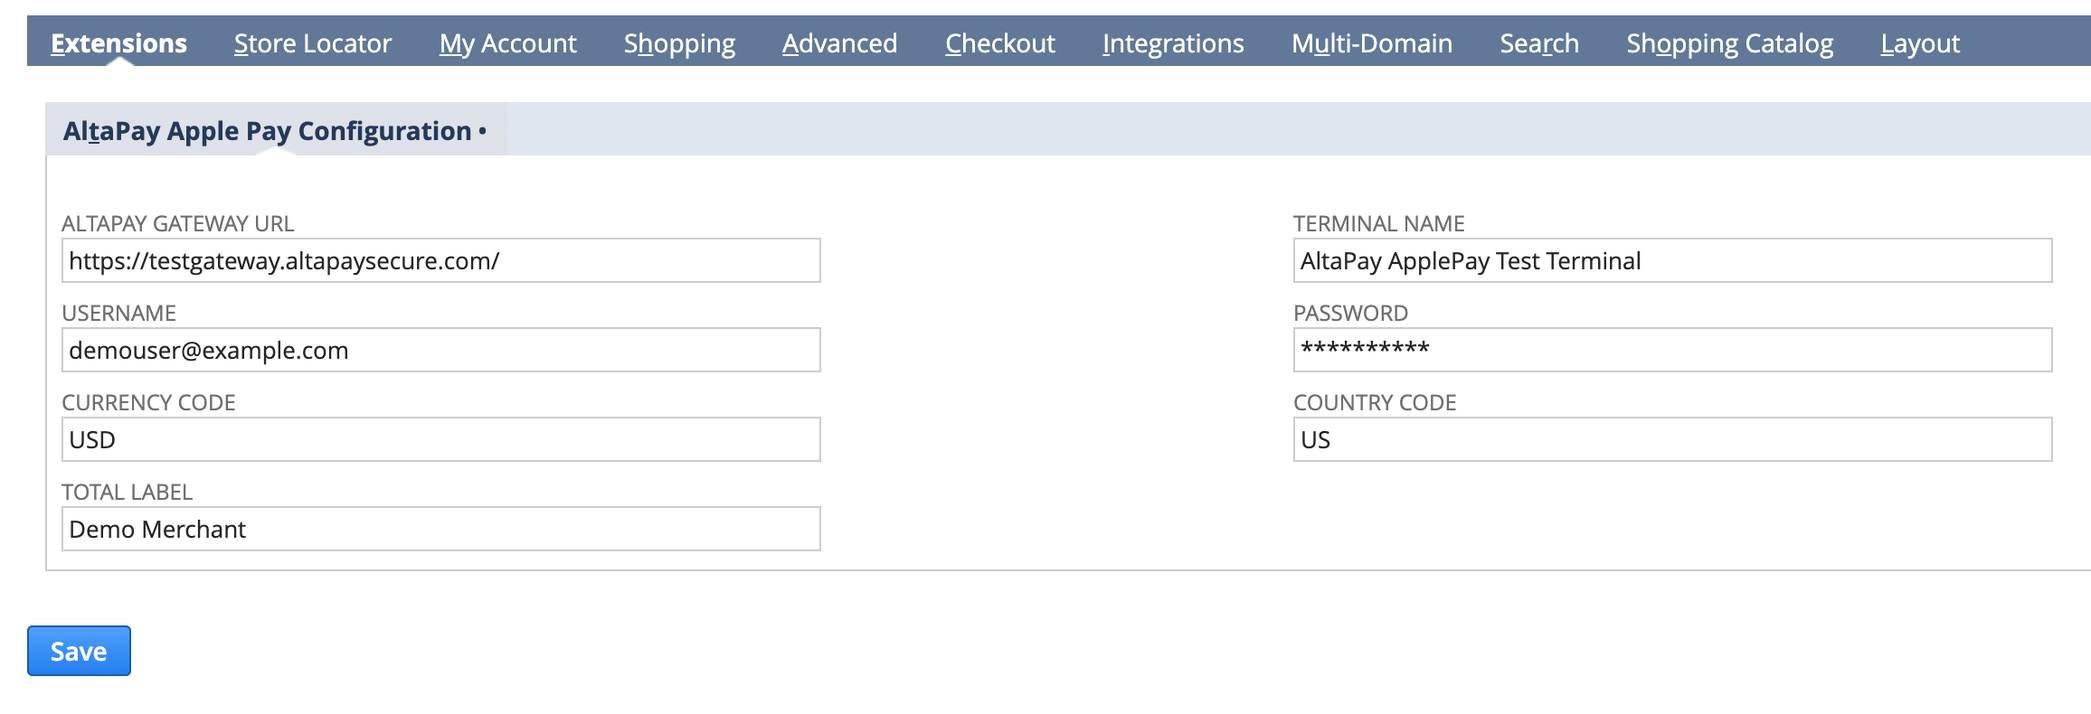
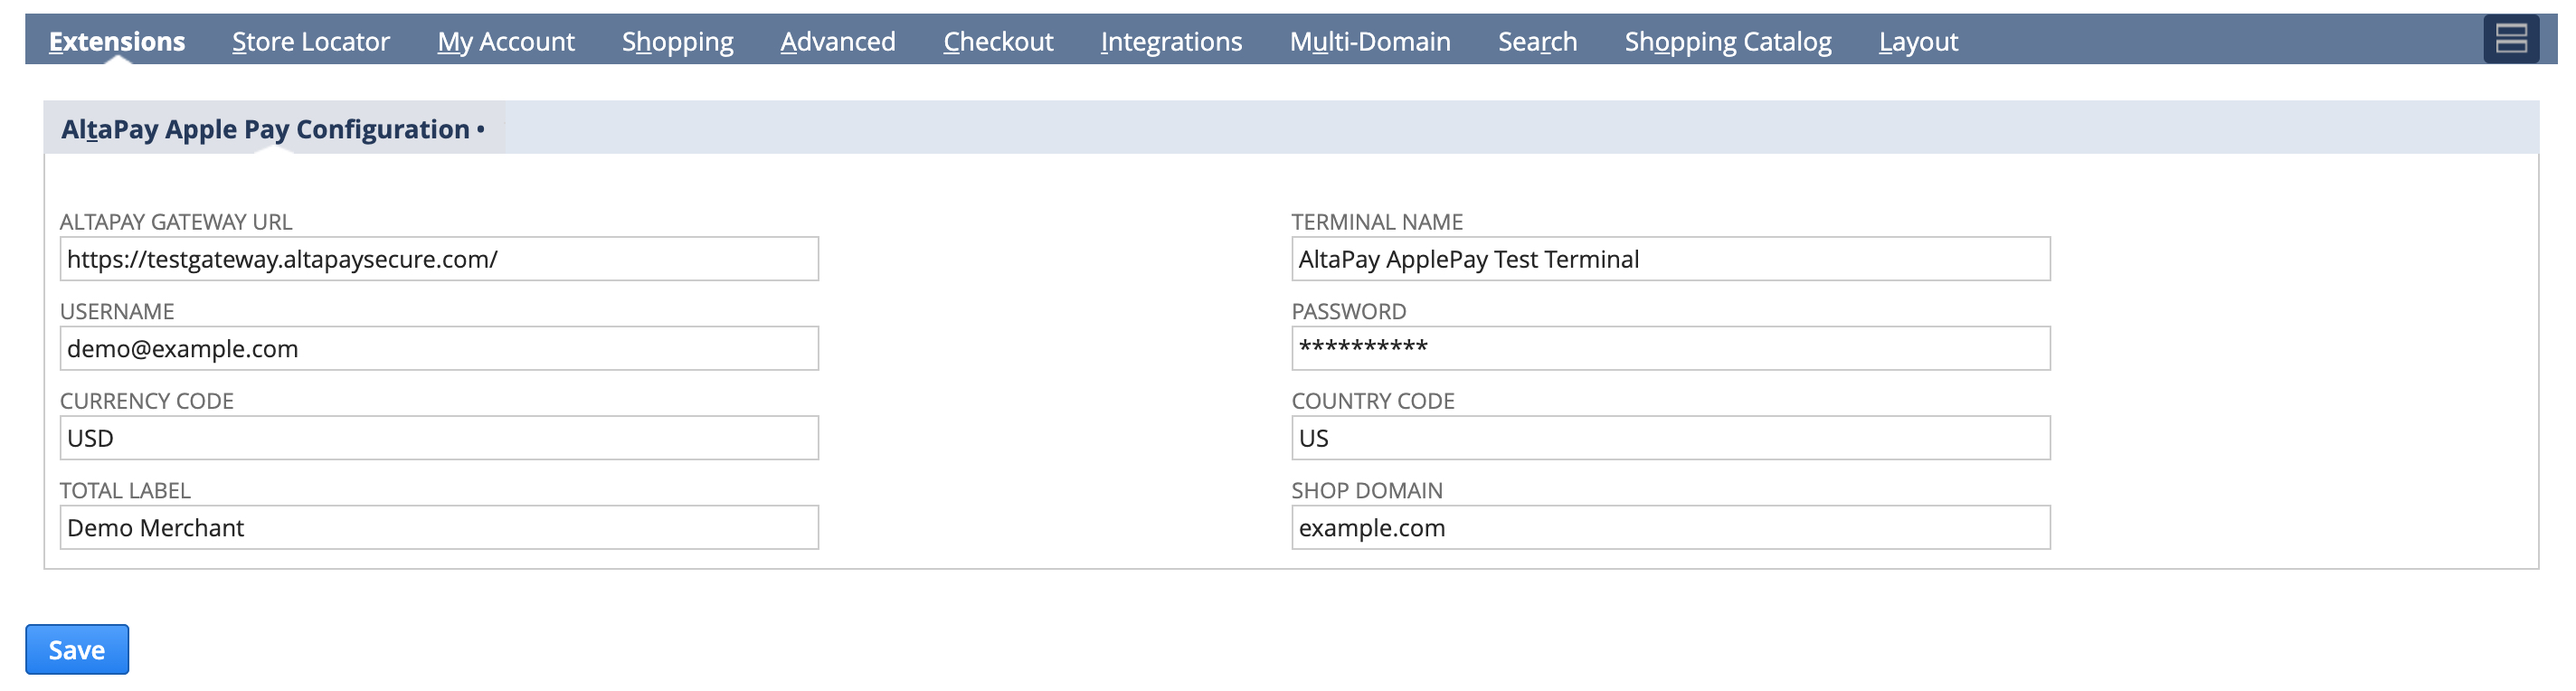
Add domain in session request

diff --git a/Alternative payments/Apple Pay Integration/IntegrateApplePay/Modules/ApplePay/SuiteScript/ApplePay.ServiceController.js b/Alternative payments/Apple Pay Integration/IntegrateApplePay/Modules/ApplePay/SuiteScript/ApplePay.ServiceController.js
@@ -140,6 +140,7 @@ define("DC.IntegrateApplePay.ApplePay.ServiceController", ["ServiceController"],
         headers['Authorization'] = "Basic " + Base64.encode(Configuration.get("ApplePay.username") + ":" + Configuration.get("ApplePay.password"));
         var requestData = {
           "terminal": Configuration.get("ApplePay.terminalName"),
+          "domain": Configuration.get("ApplePay.shopDomain"),
           "validationUrl": validationUrl
         };
         //send the request to the restlet and retrieve the response
